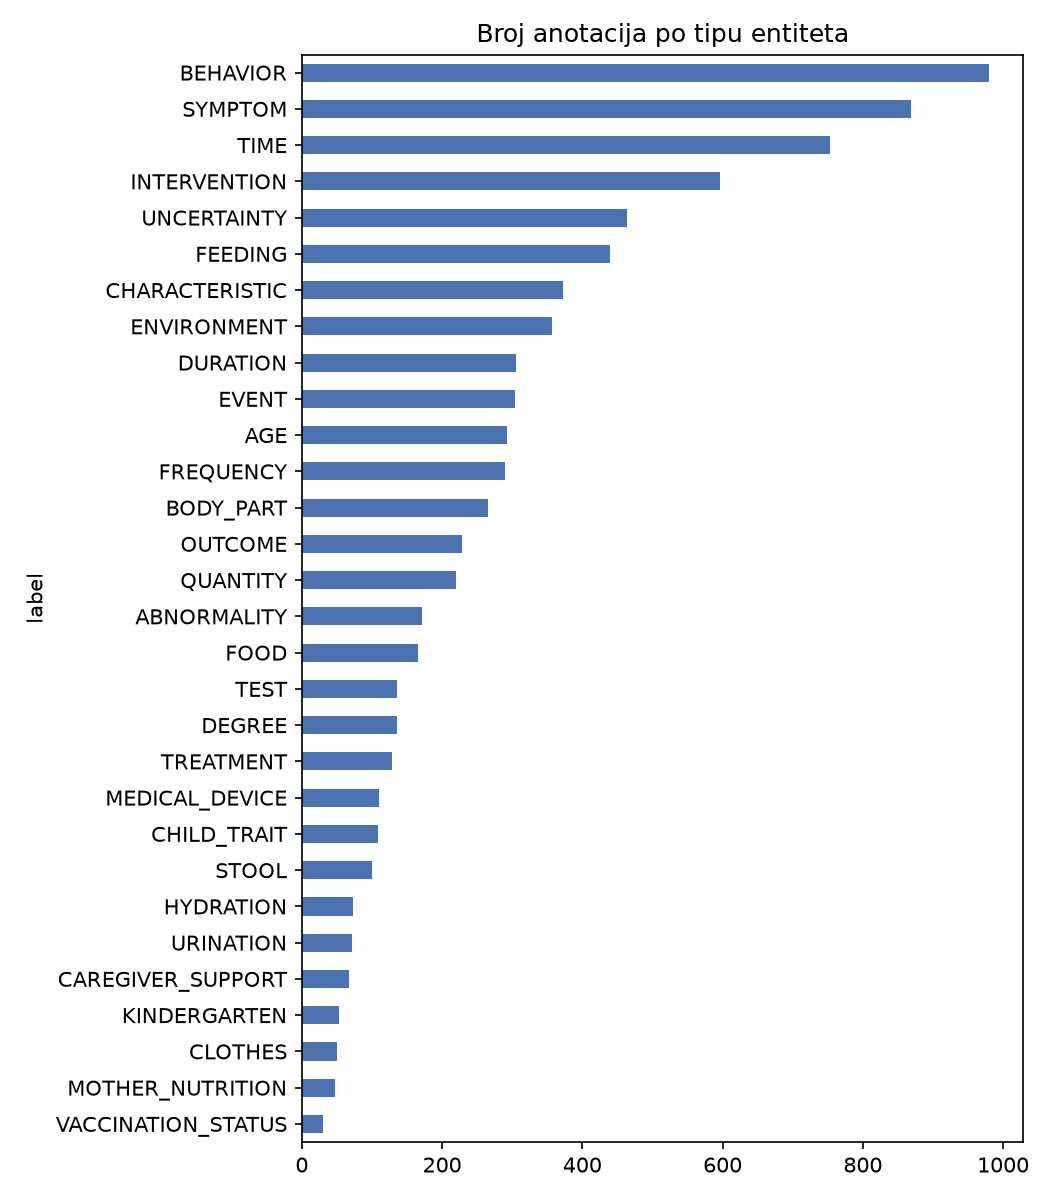
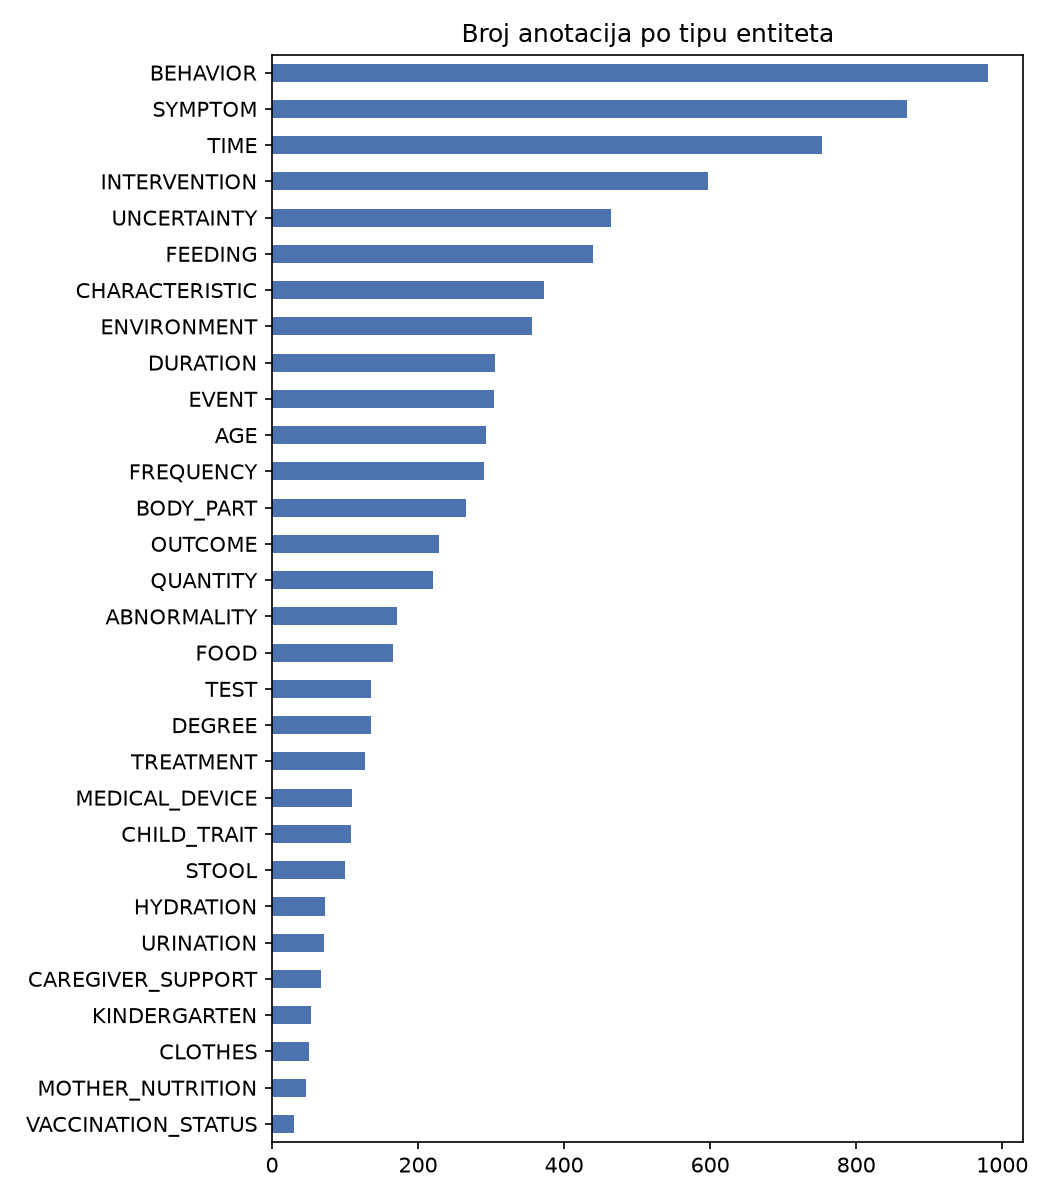
added entity examples sumup

diff --git a/main.py b/main.py
@@ -11,8 +11,8 @@ konzistentnost i radi eksplorativnu analizu (EDA):
     6. struktura razgovora (kako roditelji opisuju, kako sestre pitaju/savetuju)
     7. preliminarna ko-okurencija simptom-intervencija (uvod u Fazu 2)
 
-Svi rezultati (tabele, grafici, tekstualni izveštaj) se čuvaju u folderu
-rezultati_faza1/.
+Tekstualni izveštaj (izvestaj.txt) i tri grafika (tipovi entiteta, emocije,
+teme) se čuvaju u folderu rezultati_faza1/.
 """
 import json
 import re
@@ -178,7 +178,6 @@ def text_similarity(other, did):
 check["identicne_replike_sazeci"] = [same_turn_share(sum_turns, d) for d in check.index]
 check["slicnost_sazeci"] = [text_similarity(sum_turns, d) for d in check.index]
 check["slicnost_emocije"] = [text_similarity(emo_turns, d) for d in check.index]
-check.to_csv(OUT / "konzistentnost_izvora.csv")
 
 diff_emo = check[check["emocije"] != check["entiteti"]]
 diff_en = check[check["engleski"] != check["entiteti"]]
@@ -243,14 +242,6 @@ log("Ko završava razgovor:", dialogs["last_speaker"].value_counts().to_dict())
 same_speaker = (turns["speaker"] == turns.groupby("dialog_id")["speaker"].shift()).sum()
 log(f"Uzastopne replike istog govornika: {same_speaker} (razgovor je gotovo strogo naizmeničan)")
 
-fig, ax = plt.subplots(1, 2, figsize=(11, 4))
-dialogs["n_turns"].plot.hist(bins=20, ax=ax[0], color="#4C72B0", edgecolor="white")
-ax[0].set(title="Broj replika po dijalogu", xlabel="replike", ylabel="broj dijaloga")
-turns.boxplot(column="n_words", by="speaker", ax=ax[1], showfliers=False)
-ax[1].set(title="Broj reči po replici", xlabel="", ylabel="reči")
-fig.suptitle("")
-save_fig("01_duzine.png")
-
 # ---------------------------------------------------------------------------
 # 3. Anotacije entiteta
 # ---------------------------------------------------------------------------
@@ -268,7 +259,6 @@ label_stats = pd.DataFrame({
 }).sort_values("broj", ascending=False)
 label_stats["engleski_broj"] = en_entities["label"].value_counts()
 log(label_stats.to_string())
-label_stats.to_csv(OUT / "entiteti_po_tipu.csv")
 
 key_labels = ["SYMPTOM", "INTERVENTION", "TREATMENT", "EVENT", "OUTCOME", "BEHAVIOR"]
 for label in key_labels:
@@ -286,10 +276,9 @@ span_len = entities["span"].str.split().str.len()
 log("\nDužina raspona (broj reči) po tipu - medijana / max:")
 log(span_len.groupby(entities["label"]).agg(["median", "max"]).loc[key_labels].to_string())
 
-entities.to_csv(OUT / "entiteti.csv", index=False)
-
 label_stats["broj"].sort_values().plot.barh(figsize=(7, 8), color="#4C72B0")
 plt.title("Broj anotacija po tipu entiteta")
+plt.ylabel("")
 save_fig("02_tipovi_entiteta.png")
 
 # ---------------------------------------------------------------------------
@@ -314,10 +303,10 @@ unc_emo = set(emotions.loc[emotions["label"] == "UNCERTAIN", ["dialog_id", "turn
 unc_ent = set(entities.loc[entities["label"] == "UNCERTAINTY", ["dialog_id", "turn_idx"]].itertuples(index=False))
 log(f"\nReplike sa UNCERTAIN (emocije): {len(unc_emo)}, sa UNCERTAINTY (entiteti): {len(unc_ent)}, "
     f"presek: {len(unc_emo & unc_ent)}")
-emotions.to_csv(OUT / "emocije.csv", index=False)
 
 emotions["label"].value_counts().sort_values().plot.barh(figsize=(7, 4), color="#DD8452")
 plt.title("Broj anotacija po emociji")
+plt.ylabel("")
 save_fig("03_emocije.png")
 
 # ---------------------------------------------------------------------------
@@ -357,10 +346,9 @@ log("\nDijalozi svrstani u 'ostalo' (proveriti ručno):")
 for did, row in dialogs[dialogs["topics"].apply(lambda t: t == ['ostalo'])].iterrows():
     log(f"  {did}: {'; '.join(row['key_words'])}")
 
-log("\nSvih 150 razloga poziva (key_words) je sačuvano u dijalozi.csv")
-
 topic_counts.sort_values().plot.barh(figsize=(8, 5), color="#55A868")
 plt.title("Broj dijaloga po temi")
+plt.ylabel("")
 save_fig("04_teme.png")
 
 # ---------------------------------------------------------------------------
@@ -414,15 +402,6 @@ advice = iv[(iv["uloga"].str.contains("savet")) & (iv["rel_pos"] > 2 / 3)]
 for (did, tidx) in advice[["dialog_id", "turn_idx"]].drop_duplicates().head(6).itertuples(index=False):
     log(f"  [{did}] " + turns.loc[(turns['dialog_id'] == did) & (turns['turn_idx'] == tidx), 'annotated_text'].iloc[0])
 
-fig, ax = plt.subplots(figsize=(9, 4))
-for speaker, color in [("POZIVALAC", "#4C72B0"), ("SESTRA", "#DD8452")]:
-    sub = entities[entities["label"].isin(["SYMPTOM", "INTERVENTION", "TREATMENT"]) & (entities["speaker"] == speaker)]
-    ax.hist(sub["rel_pos"], bins=10, alpha=0.6, label=speaker, color=color)
-ax.set(title="SYMPTOM/INTERVENTION/TREATMENT kroz tok razgovora",
-       xlabel="relativna pozicija u razgovoru (0 = početak, 1 = kraj)", ylabel="broj raspona")
-ax.legend()
-save_fig("05_tok_razgovora.png")
-
 # ---------------------------------------------------------------------------
 # 7. Preliminarna ko-okurencija simptom - intervencija (uvod u Fazu 2)
 # ---------------------------------------------------------------------------
@@ -449,12 +428,6 @@ log(top_pairs.to_string())
 log("\nNAPOMENA: parovi su i dalje fragmentisani jer isti pojam ima mnogo oblika "
     "('temperatura', 'temperaturu', 'povišenu temperaturu'...). Lematizacija i spajanje "
     "sinonima (Faza 2/3) su neophodni pre izgradnje grafa.")
-dialog_pairs.to_csv(OUT / "kookurencija_simptom_intervencija.csv", index=False)
 
-# ---------------------------------------------------------------------------
-# Čuvanje tabela
-# ---------------------------------------------------------------------------
-dialogs.drop(columns=["topic_text"]).to_csv(OUT / "dijalozi.csv")
-turns.to_csv(OUT / "replike.csv", index=False)
 log(f"\nRezultati sačuvani u: {OUT}")
 _report.close()

diff --git a/primeri_entiteta.py b/primeri_entiteta.py
@@ -1,0 +1,93 @@
+"""
+Primeri upotrebe za svaki od 30 tipova entiteta (pomoć pri definisanju ontologije).
+
+Za svaki tip bira najčešći oblik entiteta u bazi i prikazuje jedan isečak
+razgovora u kom se on javlja: prethodnu repliku, repliku sa entitetom i
+sledeću repliku. Entitet je označen kao »tekst«, a ostale oznake su uklonjene
+da bi se razgovor video onako kako je izgovoren.
+
+Ispis ide na ekran i u rezultati_faza1/primeri_entiteta.txt.
+"""
+import json
+import re
+from pathlib import Path
+
+BASE = Path(__file__).resolve().parent
+DATA = BASE / "data"
+OUT = BASE / "rezultati_faza1"
+OUT.mkdir(exist_ok=True)
+
+N_PRIMERA = 1          # koliko primera po tipu entiteta
+KONTEKST = 1           # koliko replika pre i posle prikazati
+MIN_RECI, MAX_RECI = 6, 40  # biramo repliku razumne dužine, ako postoji
+
+SPAN_RE = re.compile(r"\[([^\[\]|]+)\|\s*([A-Z_]+)\s*\]")
+
+
+def load_dialogs():
+    dialogs = {}
+    for path in (DATA / "osnovne_anotacije").glob("*.json"):
+        with open(path, encoding="utf-8") as f:
+            dialogs[int(path.stem)] = json.load(f)["annotations"]
+    return dict(sorted(dialogs.items()))
+
+
+def load_descriptions():
+    """Opis svakog tipa iz Entity_types_description.md (engleski)."""
+    desc = {}
+    md = (DATA / "english_annotation" / "Entity_types_description.md").read_text(encoding="utf-8")
+    for label, text in re.findall(r"\|\s*\*\*([A-Z_]+)\*\*\s*\|\s*(.+?)\s*\|", md):
+        desc[label] = text
+    return desc
+
+
+def plain(annotated, target=None):
+    """Uklanja oznake; ciljni raspon (tekst, tip) označava sa »...«."""
+    def repl(m):
+        if target and (m.group(1).strip(), m.group(2)) == target:
+            return f"»{m.group(1)}«"
+        return m.group(1)
+    return SPAN_RE.sub(repl, annotated)
+
+
+dialogs = load_dialogs()
+descriptions = load_descriptions()
+
+# svi rasponi: (tip) -> lista (dialog_id, turn_idx, tekst raspona)
+mentions = {}
+for did, turns in dialogs.items():
+    for i, turn in enumerate(turns):
+        for span, label in SPAN_RE.findall(turn["annotated_text"]):
+            mentions.setdefault(label, []).append((did, i, span.strip()))
+
+lines = []
+for label in sorted(mentions, key=lambda l: -len(mentions[l])):
+    items = mentions[label]
+    forms = {}
+    for did, i, span in items:
+        forms.setdefault(span.lower(), []).append((did, i, span))
+    # najčešći oblici prvo
+    ranked = sorted(forms.values(), key=len, reverse=True)
+
+    lines.append("=" * 90)
+    lines.append(f"{label}  ({len(items)} pojavljivanja, {len(forms)} različitih oblika)")
+    lines.append(f"Opis: {descriptions.get(label, '-')}")
+    lines.append("Najčešći oblici: " + ", ".join(f"{occ[0][2].lower()} ({len(occ)})" for occ in ranked[:5]))
+
+    for occ in ranked[:N_PRIMERA]:
+        def words(o):
+            return len(dialogs[o[0]][o[1]]["text"].split())
+        fitting = [o for o in occ if MIN_RECI <= words(o) <= MAX_RECI]
+        did, idx, span = (fitting or occ)[0]
+        turns = dialogs[did]
+        lines.append(f"\nPrimer: »{span}«  (dijalog {did}, replika {idx + 1} od {len(turns)})")
+        for j in range(max(0, idx - KONTEKST), min(len(turns), idx + KONTEKST + 1)):
+            t = turns[j]
+            target = (span, label) if j == idx else None
+            marker = "→" if j == idx else " "
+            lines.append(f"  {marker} {t['speaker']:<9}: {plain(t['annotated_text'], target)}")
+    lines.append("")
+
+report = "\n".join(lines)
+print(report)
+(OUT / "primeri_entiteta.txt").write_text(report, encoding="utf-8")
